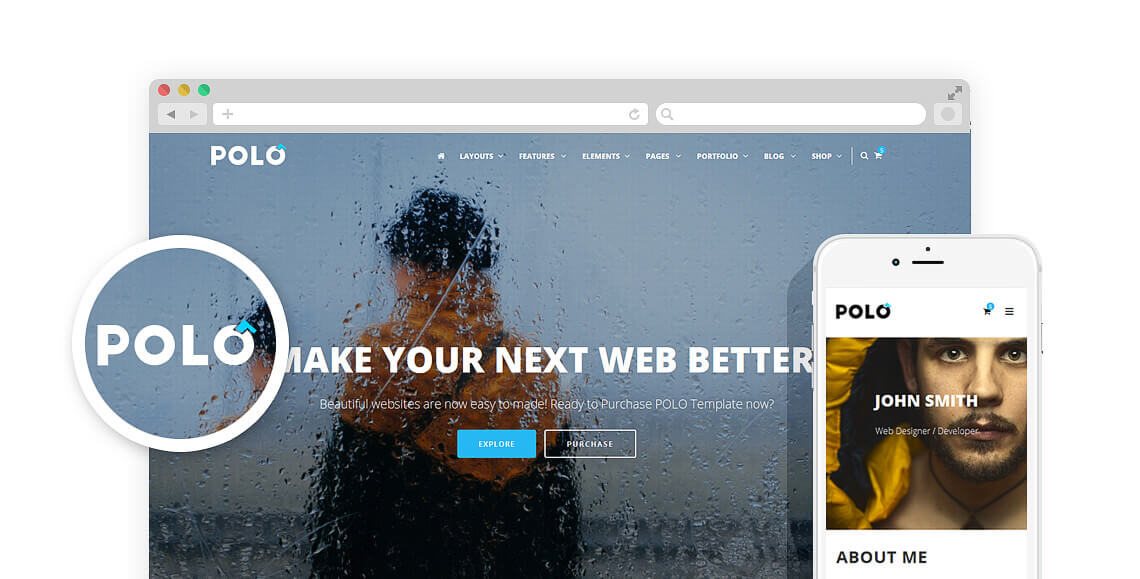
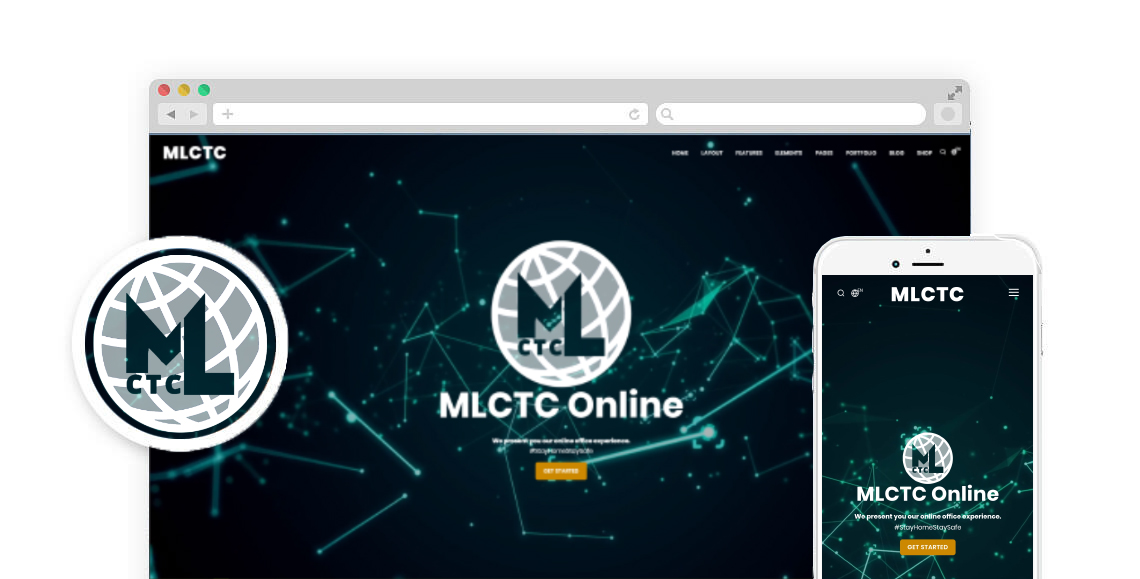
GST Cont.

diff --git a/index.html b/index.html
@@ -30,6 +30,7 @@
     <link href="css/plugins.css" rel="stylesheet">
     <link href="css/style.css" rel="stylesheet">
     <link href="css/theme.css" rel="stylesheet">
+    <link href="css/custom.css" rel="stylesheet">
 </head>
 
 <body>
@@ -716,8 +717,8 @@
         <section id="welcome" class="p-b-0">
             <div class="container">
                 <div class="heading-text heading-section text-center m-b-40" data-animate="fadeInUp">
-                    <h2>WELCOME TO THE WORLD OF POLO</h2>
-                    <span class="lead">Create amam ipsum dolor sit amet, Beautiful nature, and rare feathers!.</span>
+                    <h2>WELCOME TO MLCTC ONLINE</h2>
+                    <span class="lead">Bringing to you our office experience to you, online. Keeping our clients safety concerns at priority, we at MLCTC have developed a website to make sure our clients are always cared for.<br><br><b> Scroll down to get started.</b></span>
                 </div>
                 <div class="row" data-animate="fadeInUp">
                     <div class="col-lg-12">
@@ -731,20 +732,17 @@
         <section class="background-grey">
             <div class="container">
                 <div class="heading-text heading-section">
-                    <h2>WHAT WE DO</h2>
-                    <span class="lead">Create amam ipsum dolor sit amet, Beautiful nature, and rare feathers!.</span>
+                    <h2>CHOOSE YOUR SERVICE</h2>
                 </div>
                 <div class="row">
                     <div class="col-lg-4">
                         <div data-animate="fadeInUp" data-animate-delay="0">
-                            <h4>Modern Design</h4>
-                            <p>Lorem ipsum dolor sit amet, blandit vel sapien vitae, condimentum ultricies magna et. Quisque euismod orci ut et lobortis aliquam.</p>
+                            <center><button id="GST" type="button" class="btn btn-outline btn-rounded" href="gst/gst_begin.html">Goods & Services Tax (GST)</button></center>
                         </div>
                     </div>
                     <div class="col-lg-4">
                         <div data-animate="fadeInUp" data-animate-delay="200">
-                            <h4>Loaded with Features</h4>
-                            <p>Lorem ipsum dolor sit amet, blandit vel sapien vitae, condimentum ultricies magna et. Quisque euismod orci ut et lobortis aliquam.</p>
+                              <center><button type="button" class="btn btn-outline btn-rounded">      Income Tax      </button></center>
                         </div>
                     </div>
                     <div class="col-lg-4">
@@ -1301,63 +1299,6 @@
         <footer id="footer">
             <div class="footer-content">
                 <div class="container">
-                    <div class="row">
-                        <div class="col-lg-5">
-                            <div class="widget">
-                                <div class="widget-title">Polo HTML5 Template</div>
-                                <p class="mb-5">Built with love in Fort Worth, Texas, USA<br> All rights reserved. Copyright © 2019. INSPIRO.</p>
-                                <a href="https://themeforest.net/item/polo-responsive-multipurpose-html5-template/13708923" class="btn btn-inverted" target="_blank">Purchase Now</a>
-                            </div>
-                        </div>
-                        <div class="col-lg-7">
-                            <div class="row">
-                                <div class="col-lg-3">
-                                    <div class="widget">
-                                        <div class="widget-title">Discover</div>
-                                        <ul class="list">
-                                            <li><a href="#">Features</a></li>
-                                            <li><a href="#">Layouts</a></li>
-                                            <li><a href="#">Corporate</a></li>
-                                            <li><a href="#">Updates</a></li>
-                                            <li><a href="#">Pricing</a></li>
-                                            <li><a href="#">Customers</a></li>
-                                        </ul>
-                                    </div>
-                                </div>
-                                <div class="col-lg-3">
-                                    <div class="widget">
-                                        <div class="widget-title">Features</div>
-                                        <ul class="list">
-                                            <li><a href="#">Layouts</a></li>
-                                            <li><a href="#">Headers</a></li>
-                                            <li><a href="#">Widgets</a></li>
-                                            <li><a href="#">Footers</a></li>
-                                        </ul>
-                                    </div>
-                                </div>
-                                <div class="col-lg-3">
-                                    <div class="widget">
-                                        <div class="widget-title">Pages</div>
-                                        <ul class="list">
-                                            <li><a href="#">Portfolio</a></li>
-                                            <li><a href="#">Blog</a></li>
-                                            <li><a href="#">Shop</a></li>
-                                        </ul>
-                                    </div>
-                                </div>
-                                <div class="col-lg-3">
-                                    <div class="widget">
-                                        <div class="widget-title">Support</div>
-                                        <ul class="list">
-                                            <li><a href="#">Help Desk</a></li>
-                                            <li><a href="#">Documentation</a></li>
-                                            <li><a href="#">Contact Us</a></li>
-                                        </ul>
-                                    </div>
-                                </div>
-                            </div>
-                        </div>
-                    </div>
                 </div>
             </div>
             <div class="copyright-content">
@@ -1376,6 +1317,7 @@
     <script src="js/plugins.js"></script>
     <!--Template functions-->
     <script src="js/functions.js"></script>
+    <script src="js/custom.js"></script>
 </body>
 
 </html>

diff --git a/gst_begin.html b/gst_begin.html
@@ -1,0 +1,78 @@
+<!DOCTYPE html>
+<html lang="en">
+
+<head>
+  <meta name="viewport" content="width=device-width, initial-scale=1" />
+  <meta http-equiv="content-type" content="text/html; charset=utf-8" />
+  <meta name="author" content="Mudit Lal" />
+  <meta name="description" content="Same MLCTC but, online and smarter">
+  <link rel="apple-touch-icon" sizes="57x57" href="favicon/apple-icon-57x57.png">
+  <link rel="apple-touch-icon" sizes="60x60" href="favicon/apple-icon-60x60.png">
+  <link rel="apple-touch-icon" sizes="72x72" href="favicon/apple-icon-72x72.png">
+  <link rel="apple-touch-icon" sizes="76x76" href="favicon/apple-icon-76x76.png">
+  <link rel="apple-touch-icon" sizes="114x114" href="favicon/apple-icon-114x114.png">
+  <link rel="apple-touch-icon" sizes="120x120" href="favicon/apple-icon-120x120.png">
+  <link rel="apple-touch-icon" sizes="144x144" href="favicon/apple-icon-144x144.png">
+  <link rel="apple-touch-icon" sizes="152x152" href="favicon/apple-icon-152x152.png">
+  <link rel="apple-touch-icon" sizes="180x180" href="favicon/apple-icon-180x180.png">
+  <link rel="icon" type="image/png" sizes="192x192"  href="favicon/android-icon-192x192.png">
+  <link rel="icon" type="image/png" sizes="32x32" href="favicon/favicon-32x32.png">
+  <link rel="icon" type="image/png" sizes="96x96" href="favicon/favicon-96x96.png">
+  <link rel="icon" type="image/png" sizes="16x16" href="favicon/favicon-16x16.png">
+  <link rel="manifest" href="favicon/manifest.json">
+  <meta name="msapplication-TileColor" content="#ffffff">
+  <meta name="msapplication-TileImage" content="favicon/ms-icon-144x144.png">
+  <meta name="theme-color" content="#ffffff">
+  <meta http-equiv="X-UA-Compatible" content="IE=edge">
+  <!-- Document title -->
+  <title>GST - MLCTC Online</title>
+  <!-- Stylesheets & Fonts -->
+  <link href="https://mudit-lal.github.io/mlctconline.github.io/css/plugins.css" rel="stylesheet">
+  <link href="https://mudit-lal.github.io/mlctconline.github.io/css/style.css" rel="stylesheet">
+  <link href="https://mudit-lal.github.io/mlctconline.github.io/css/themes.css" rel="stylesheet">
+  <link href="https://mudit-lal.github.io/mlctconline.github.io/css/custom.css" rel="stylesheet">
+</head>
+
+<body>
+    <!-- Body Inner -->
+    <div class="body-inner">
+        <!-- Section -->
+        <section class="fullscreen" data-bg-parallax="images/pages/gst_begin_back.jpg">
+            <div class="container">
+                <div>
+                    <div class="text-center m-b-30">
+                        <a href="index.html" class="logo">
+                            <img style="max-width:20%;"src="images/mlctc-black.png" alt="MLCTC Online Logo">
+                        </a>
+                    </div>
+                    <div class="row">
+                        <div class="col-lg-5 center p-50 background-white b-r-6">
+                            <h3>Select category under GST</h3>
+                            <form>
+                              <select id="selectbox" name="" onchange="javascript:location.href = this.value;">
+                                <option value="#" selected>Click on me to select</option>
+                                <option value="https://www.yahoo.com/">Trader</option>
+                                <option value="https://www.google.co.in/">Manufacturer</option>
+                                <option value="https://www.gmail.com/">Dealer</option>
+                              </select>
+                            </form><br>
+                            <p class="small">Don't know which category you are in? <a href="#">Click here to know more</a>
+                            </p>
+                        </div>
+                    </div>
+                </div>
+            </div>
+        </section>
+        <!-- end: Section -->
+    </div>
+    <!-- end: Body Inner -->
+    <!-- Scroll top -->
+    <a id="scrollTop"><i class="icon-chevron-up"></i><i class="icon-chevron-up"></i></a>
+    <!--Plugins-->
+    <script src="js/jquery.js"></script>
+    <script src="js/plugins.js"></script>
+    <!--Template functions-->
+    <script src="js/functions.js"></script>
+</body>
+
+</html>

diff --git a/js/custom.js b/js/custom.js
@@ -1,8 +1,11 @@
-/* 
+/*
 
 1. Add your custom JavaScript code below
 2. Place the this code in your template:
 
-  
+
 
 */
+    document.getElementById("GST").onclick = function () {
+        location.href = "gst/gst_begin.html";
+    };
